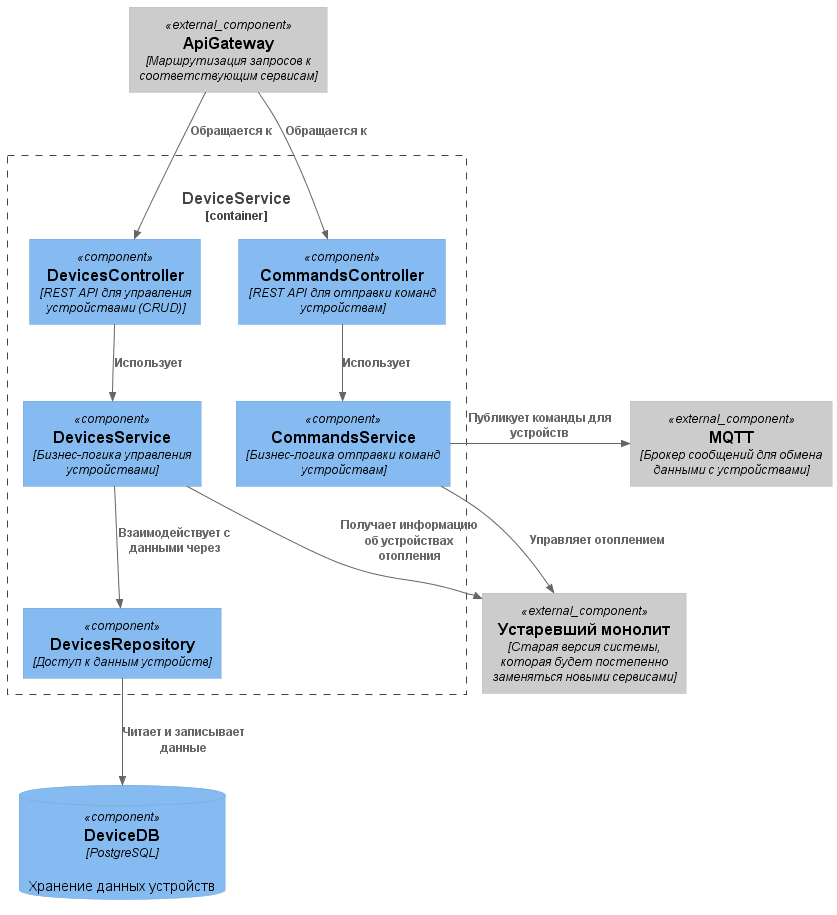
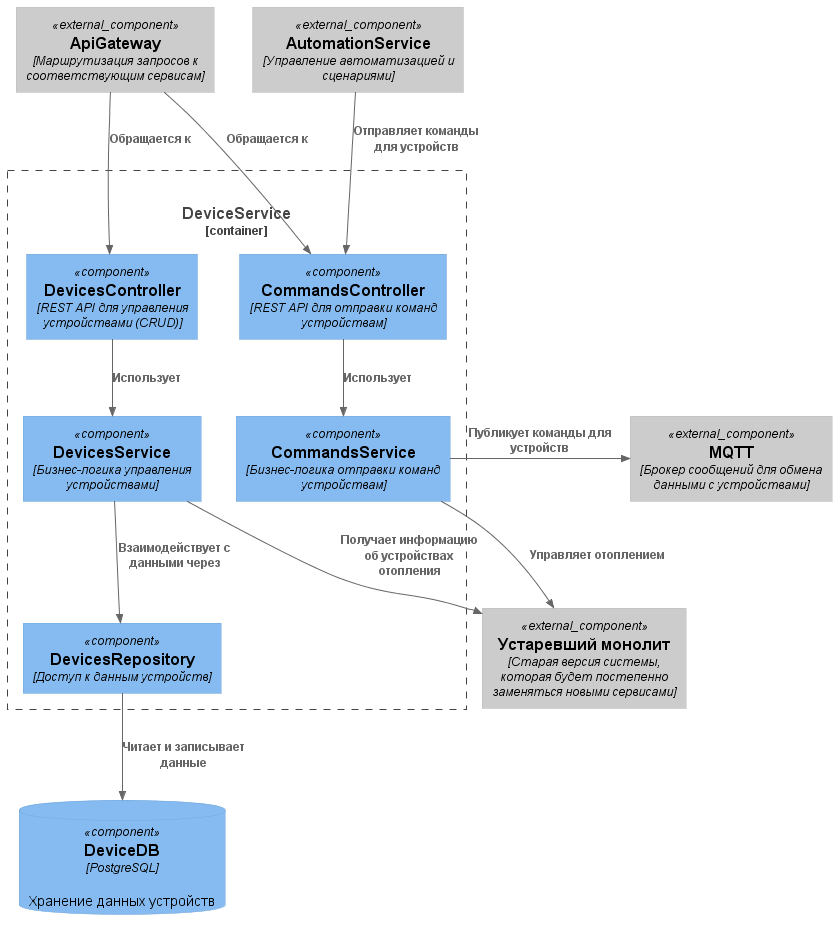
Диаграмма AutomationService

diff --git a/README.md b/README.md
@@ -63,6 +63,10 @@ TelemetryService
 
 ![Диаграмма компонента TelemetryService](schemas/to-be/TelemetryService.png)
 
+AutomationService
+
+![Диаграмма компонента AutomationService](schemas/to-be/AutomationService.png)
+
 **Диаграмма кода (Code)**
 
 Добавьте одну диаграмму или несколько.
